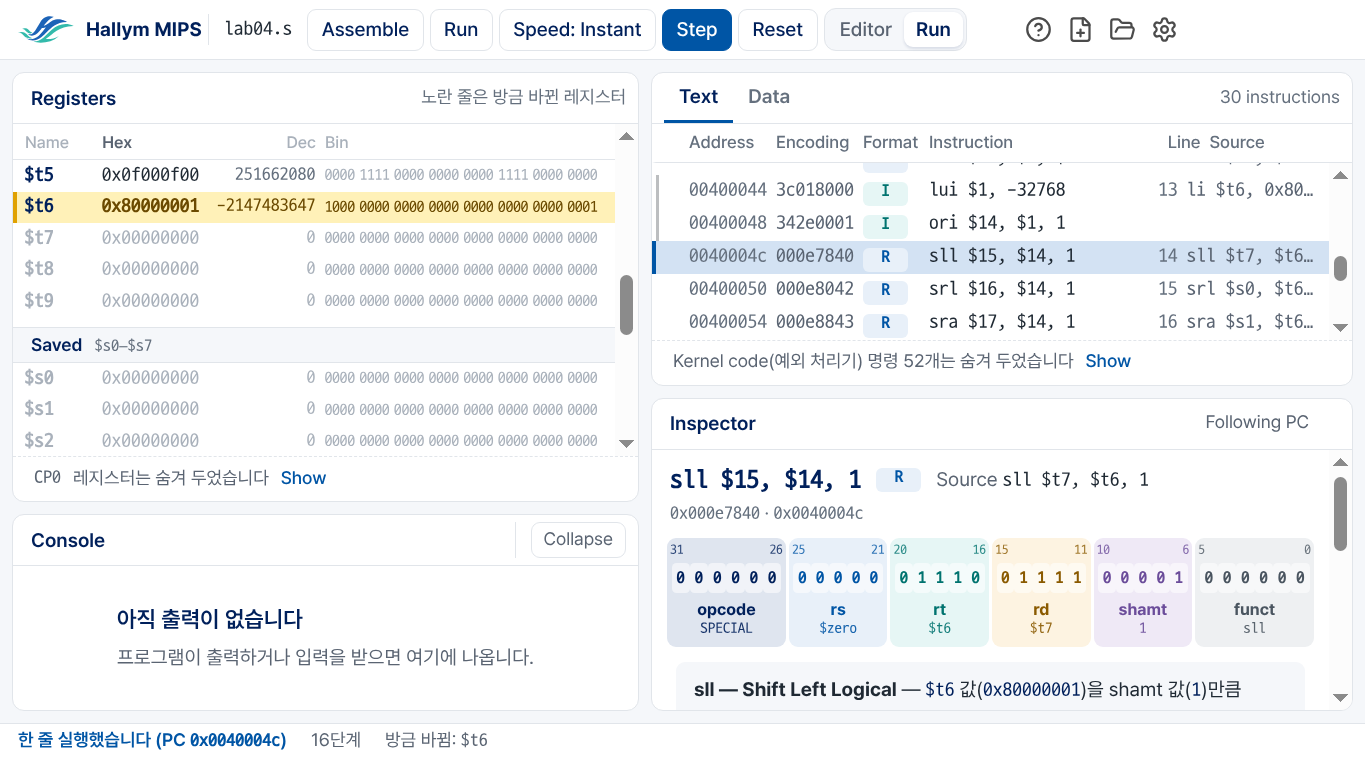
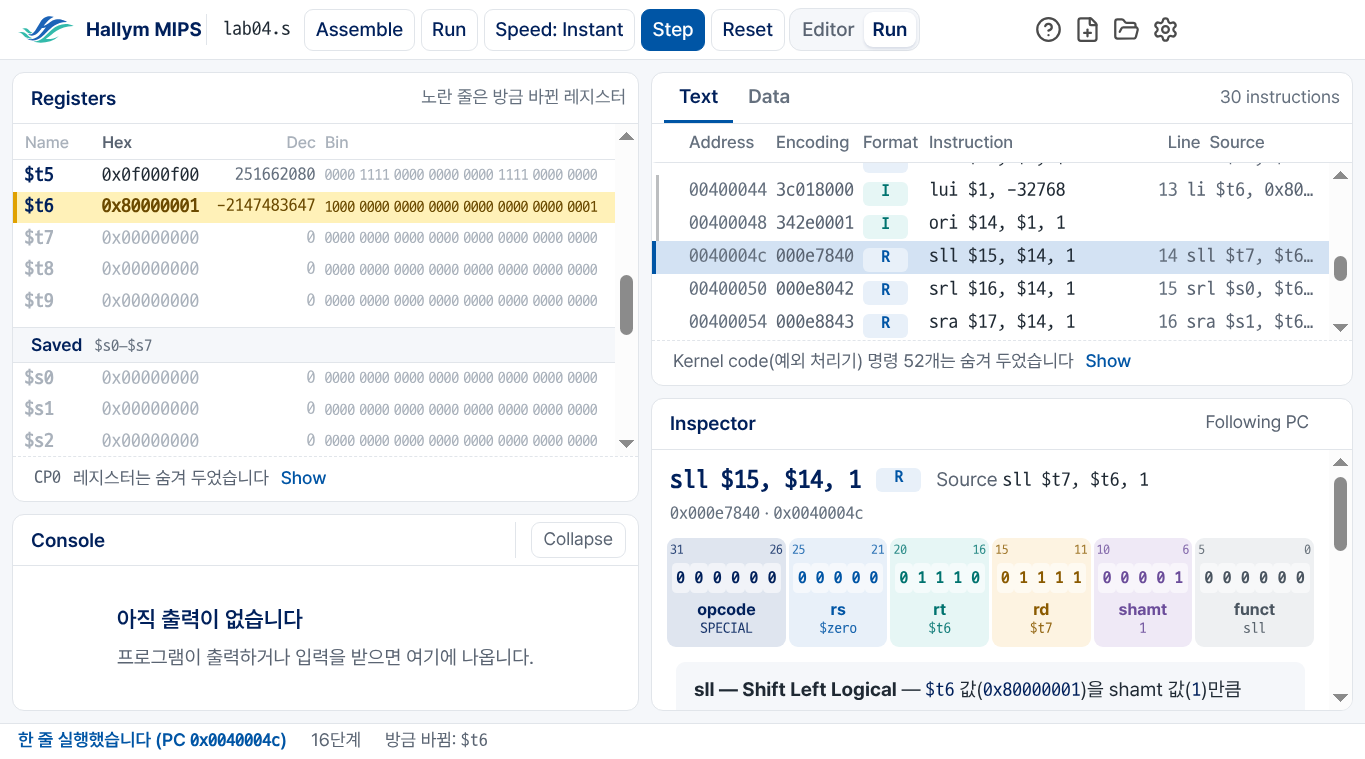
Title bar: the file's name gives way before the program's
A step between the tighter spacing and the program's name: the file's
name is cut in its stem (extension kept, Hangul counted as two columns,
logic/names.ts), down to ten columns, the whole name in the tooltip;
only if that is not enough does "Hallym MIPS" go, and the file's name
takes back the room.  Tighter spacing a little tighter still.

fit.e2e: lab04.s and a twenty-column name with Hangul
(lab04_김학현_20210123.s) at 1280, 1093, 1024 and 910, each also with the
caption buttons 30 px wider as on Windows (--caption-extra): the
program's name stays, the file's name is >= 10 columns and ends in .s,
nothing under the caption buttons.  3 new mutants.

Changed region(s): [[0.1538, 0.0, 0.7077, 0.0909], [0.7385, 0.0, 0.8615, 0.0606]]

diff --git a/src/renderer/app/app.ts b/src/renderer/app/app.ts
@@ -36,6 +36,7 @@ import type { RunResult } from '../../sim/protocol.ts';
 import './api.ts';
 import { asset, character, code, codeText, h, icon, withHex } from './dom.ts';
 import { createEditor } from './editor.ts';
+import { shortName } from './logic/names.ts';
 import { stateAfter, stopMessage, textRows, type RegisterValues, type RunState, type TextRow } from './logic/machine.ts';
 import { aboutDialog } from './panels/about.ts';
 import { ConsolePanel } from './panels/console.ts';
@@ -383,8 +384,7 @@ const assembleOptions = (a: Advanced) => ({
 
 function renderChrome(): void {
   document.title = open ? `${file.name}${dirty ? ' •' : ''} — ${APP_NAME}` : APP_NAME;
-  fileLabel.replaceChildren(open ? h('b', { class: 'mono' }, file.name) : '',
-    open && dirty ? h('span', { class: 'dirty', title: 'Unsaved changes' }, ' •') : '');
+  showFileName(FILE_MOST);
   const running = runState === 'running';
   const setBtn = (b: HTMLButtonElement, on: boolean, primary: boolean) => {
     b.disabled = !on;
@@ -410,20 +410,53 @@ function renderChrome(): void {
   fitTitlebar();
 }
 
+// The file's name in the title bar, at most `cols` columns (logic/names.ts);
+// the whole name in its tooltip.
+const FILE_MOST = 32;
+const FILE_LEAST = 10;
+function showFileName(cols: number): void {
+  fileLabel.title = open ? file.name : '';
+  fileLabel.replaceChildren(open ? h('b', { class: 'mono' }, shortName(file.name, cols)) : '',
+    open && dirty ? h('span', { class: 'dirty', title: 'Unsaved changes' }, ' •') : '');
+}
+
 // The title bar gives way one step at a time, as far as it has to: the key
 // hints, the buttons' icons (their names stay), the speed as one button,
-// tighter spacing, and last the program's name (the logo stays).
+// tighter spacing, the file's name (down to FILE_LEAST columns), and last
+// the program's name (the logo stays) -- the file's name then takes back
+// what the program's name left.
 // It fits when its last item ends before the padding kept for the system's
 // caption buttons (scrollWidth does not count what spills into padding).
-const TITLE_STEPS = 5;
+const TITLE_STEPS = 4;
 const tools = titlebar.querySelector('.tools') as HTMLElement;
 function fitTitlebar(): void {
   const end = () => titlebar.getBoundingClientRect().right - parseFloat(getComputedStyle(titlebar).paddingRight);
+  const fits = () => tools.getBoundingClientRect().right <= end() + 0.5;
+  titlebar.classList.remove('c5');
+  showFileName(FILE_MOST);
   for (let level = 0; level <= TITLE_STEPS; level += 1) {
     for (let k = 1; k <= TITLE_STEPS; k += 1) titlebar.classList.toggle(`c${k}`, level >= k);
-    if (tools.getBoundingClientRect().right <= end() + 0.5) return;
+    if (fits()) return;
   }
+  // The longest name that fits, between FILE_LEAST and FILE_MOST columns.
+  const longest = (): boolean => {
+    let lo = FILE_LEAST;
+    let hi = FILE_MOST;
+    showFileName(lo);
+    if (!fits()) return false;
+    while (lo < hi) {
+      const mid = Math.ceil((lo + hi) / 2);
+      showFileName(mid);
+      if (fits()) lo = mid; else hi = mid - 1;
+    }
+    showFileName(lo);
+    return true;
+  };
+  if (longest()) return;
+  titlebar.classList.add('c5');
+  if (!longest()) showFileName(FILE_LEAST);
 }
+window.addEventListener('resize', () => fitTitlebar());
 
 function renderStatus(): void {
   const parts: (Node | string)[] = [];

diff --git a/tests/e2e/fit.e2e.ts b/tests/e2e/fit.e2e.ts
@@ -15,6 +15,7 @@
 
 import { expect, test, type Page } from '@playwright/test';
 
+import { columns } from '../../src/renderer/app/logic/names.ts';
 import { brokenWords, launch, openAndAssemble, resize, sample, settled, type Running } from './harness.ts';
 
 const SIZES = [
@@ -92,6 +93,46 @@ for (const size of SIZES) {
       await openAndAssemble(r, sample(r.dir, 'tests/samples/lab04.s'));
       await expect(page.locator('.run-side .errors')).toBeVisible();
       expect(await brokenWords(page)).toEqual([]);
+    } finally {
+      await r.close();
+    }
+  });
+}
+
+// Real file names are long: "hw03_2021012345.s", "lab04_김학현.s".  With a
+// twenty-column one (Hangul in it), the file's name gives way before the
+// program's: cut in the stem, extension kept, never under ten columns, the
+// whole name in the tooltip -- and "Hallym MIPS" stays, at every size.
+// Again with the caption buttons 30 px wider, as on Windows (on Windows
+// itself the real ones already are).
+const LONG = 'lab04_김학현_20210123.s';
+for (const size of SIZES) {
+  test(`${size.name}: a long file name gives way before the program's name`, async () => {
+    const r = await launch(size);
+    const { page } = r;
+    try {
+      for (const extra of process.platform === 'win32' ? [0] : [0, 30]) {
+        await page.evaluate((x) => document.documentElement.style.setProperty('--caption-extra', `${x}px`), extra);
+        for (const name of ['lab04.s', LONG]) {
+          await openAndAssemble(r, sample(r.dir, 'tests/samples/lab04-ok.s', name));
+          await page.evaluate(() => window.dispatchEvent(new Event('resize')));
+          const where = `${name}, caption +${extra}`;
+          await expect(page.locator('.titlebar .appname'), where).toBeVisible();
+          const label = page.locator('.titlebar .file');
+          await expect(label, where).toHaveAttribute('title', name);
+          const shown = (await label.locator('b').textContent())!;
+          expect(shown.endsWith('.s'), `${where}: ${shown}`).toBe(true);
+          expect(columns(shown), `${where}: ${shown}`).toBeGreaterThanOrEqual(Math.min(10, columns(name)));
+          if (shown !== name) expect(shown, where).toContain('…');
+          expect(await page.evaluate((x) => {
+            const o = (navigator as unknown as { windowControlsOverlay: { getTitlebarAreaRect(): DOMRect } }).windowControlsOverlay.getTitlebarAreaRect();
+            return document.querySelector('.titlebar .tools')!.getBoundingClientRect().right <= o.x + o.width - x + 0.5;
+          }, extra), `${where}: under the caption buttons`).toBe(true);
+          for (const label of ['Assemble', 'Run', 'Step', 'Reset']) {
+            await expect(page.locator('.toolbar .btn .label', { hasText: new RegExp(`^${label}$`) }), where).toBeVisible();
+          }
+        }
+      }
     } finally {
       await r.close();
     }

diff --git a/src/renderer/app/app.css b/src/renderer/app/app.css
@@ -52,7 +52,8 @@ button { font: inherit; color: inherit; cursor: pointer; }
    right end (titleBarOverlay): keep clear of them. */
 .titlebar {
   display: flex; align-items: center; gap: 8px; min-width: 0;
-  padding: 0 calc(100vw - env(titlebar-area-x, 0px) - env(titlebar-area-width, 100vw) + 8px) 0 12px;
+  /* --caption-extra: the tests make the room Windows' wider caption buttons take. */
+  padding: 0 calc(100vw - env(titlebar-area-x, 0px) - env(titlebar-area-width, 100vw) + 8px + var(--caption-extra, 0px)) 0 12px;
   background: var(--white); border-bottom: 1px solid var(--border);
   -webkit-app-region: drag; user-select: none;
 }
@@ -60,7 +61,7 @@ button { font: inherit; color: inherit; cursor: pointer; }
 .titlebar .brand { display: flex; align-items: center; gap: 8px; flex: none; }
 .titlebar .logo { height: 18px; width: auto; }
 .titlebar .appname { font-weight: 700; color: var(--navy); white-space: nowrap; letter-spacing: .1px; }
-.titlebar .file { color: var(--text-2); white-space: nowrap; overflow: hidden; text-overflow: ellipsis; flex: none; max-width: 28ch;
+.titlebar .file { color: var(--text-2); white-space: nowrap; overflow: hidden; flex: none;
   padding-left: 10px; border-left: 1px solid var(--border); }
 .titlebar .file:empty { display: none; }
 .titlebar .file b { color: var(--text); font-weight: 400; }
@@ -90,18 +91,18 @@ button { font: inherit; color: inherit; cursor: pointer; }
 .speedlabel { font-size: 12px; color: var(--text-2); white-space: nowrap; }
 .titlebar .speedone { display: none; }
 /* A narrow title bar gives way in steps (app.ts fitTitlebar): key hints,
-   the buttons' icons, the speed as one button, tighter spacing, and only
-   then the program's name.  The buttons keep their names throughout. */
+   the buttons' icons, the speed as one button, tighter spacing, the file's
+   name (app.ts, down to ten columns), and only then the program's name.
+   The buttons keep their names throughout. */
 .titlebar.c1 .btn kbd { display: none; }
-.titlebar.c1 .file { max-width: 16ch; }
 .titlebar.c2 .toolbar .btn img { display: none; }
 .titlebar.c2 .toolbar .btn { padding: 0 9px; }
 .titlebar.c2 .toolbar { gap: 4px; }
 .titlebar.c3 .speedlabel, .titlebar.c3 .speed { display: none; }
 .titlebar.c3 .speedone { display: inline-flex; }
-.titlebar.c4 { gap: 4px; }
-.titlebar.c4 .viewswitch button { padding: 2px 8px; }
-.titlebar.c4 .iconbtn { width: 26px; }
+.titlebar.c4 { gap: 3px; }
+.titlebar.c4 .viewswitch button { padding: 2px 6px; }
+.titlebar.c4 .iconbtn { width: 24px; }
 .titlebar.c4 .toolbar .btn { padding: 0 7px; }
 .titlebar.c4 .drag { min-width: 4px; }
 .titlebar.c5 .appname { display: none; }

diff --git a/tools/mutants.ts b/tools/mutants.ts
@@ -302,7 +302,11 @@ const MUTANTS: Mutant[] = [
     find: '.titlebar.c2 .toolbar .btn img { display: none; }', replace: '.titlebar.c2 .toolbar .btn .label { display: none; }',
     tests: ['tests/e2e/fit.e2e.ts'] },
   { module: 'window', file: 'src/renderer/app/app.ts', what: 'the title bar never gives way',
-    find: '    if (tools.getBoundingClientRect().right <= end() + 0.5) return;', replace: '    return;', tests: ['tests/e2e/fit.e2e.ts'] },
+    find: '  const fits = () => tools.getBoundingClientRect().right <= end() + 0.5;', replace: '  const fits = () => true;', tests: ['tests/e2e/fit.e2e.ts'] },
+  { module: 'window', file: 'src/renderer/app/app.ts', what: 'the program\'s name given up before the file\'s',
+    find: '  if (longest()) return;\n', replace: '', tests: ['tests/e2e/fit.e2e.ts'] },
+  { module: 'window', file: 'src/renderer/app/logic/names.ts', what: 'a long name cut at its end (extension lost)',
+    find: '  return `${head}…${ext}`;', replace: '  return `${head}${ext}…`;', tests: ['tests/renderer/names.test.ts'] },
   { module: 'window', file: 'src/renderer/app/app.ts', what: 'a toolbar on the first screen',
     find: '  toolbar.hidden = !open;', replace: '  toolbar.hidden = false;', tests: ['tests/e2e/fit.e2e.ts'] },
   { module: 'window', file: 'src/renderer/app/app.css', what: 'Korean words broken anywhere',

diff --git a/tests/renderer/names.test.ts b/tests/renderer/names.test.ts
@@ -1,0 +1,22 @@
+/* A file's name shortened for the title bar (src/renderer/app/logic/
+   names.ts): the stem gives way, the extension stays; Hangul is two
+   columns wide. */
+
+import assert from 'node:assert/strict';
+import { test } from 'node:test';
+
+import { columns, shortName } from '../../src/renderer/app/logic/names.ts';
+
+test('columns: Hangul takes two', () => {
+  assert.equal(columns('lab04.s'), 7);
+  assert.equal(columns('lab04_김학현.s'), 14);
+});
+
+test('shortName: whole when it fits; else the stem cut, the extension kept, within the columns', () => {
+  assert.equal(shortName('lab04.s', 10), 'lab04.s');
+  assert.equal(shortName('hw03_2021012345.s', 12), 'hw03_2021….s');
+  assert.equal(shortName('lab04_김학현_20210123.s', 10), 'lab04_….s');
+  assert.equal(shortName('lab04_김학현_20210123.s', 12), 'lab04_김….s');
+  for (const cols of [10, 11, 12, 16, 20]) assert.ok(columns(shortName('lab04_김학현_20210123.s', cols)) <= cols);
+  assert.equal(shortName('README', 4), 'REA…');
+});

diff --git a/src/renderer/app/logic/names.ts b/src/renderer/app/logic/names.ts
@@ -1,0 +1,20 @@
+/* A file's name in a given width of the title bar, counted in columns of
+   the mono font: Hangul (and other wide characters) take two.  Too long,
+   it loses the end of its stem, not its extension: "hw03_2021….s".  The
+   whole name goes into the label's tooltip (app.ts). */
+
+const wide = (c: string) => /[ᄀ-⺀-꓏가-힣豈-﫿︰-﹏＀-｠￠-￦]/.test(c);
+export const columns = (s: string): number => [...s].reduce((n, c) => n + (wide(c) ? 2 : 1), 0);
+
+export function shortName(name: string, cols: number): string {
+  if (columns(name) <= cols) return name;
+  const dot = name.lastIndexOf('.');
+  const ext = dot > 0 && name.length - dot <= 5 ? name.slice(dot) : '';
+  const room = cols - 1 - columns(ext); // "…" takes one
+  let head = '';
+  for (const c of name.slice(0, name.length - ext.length)) {
+    if (columns(head + c) > room) break;
+    head += c;
+  }
+  return `${head}…${ext}`;
+}

diff --git a/docs/PORTING.md b/docs/PORTING.md
@@ -722,8 +722,12 @@ Format·Instruction 에 필요한 폭. Editor 는 나머지의 40% 이하, 300px
 | 910×505 (좁은 창, Run 탭) | Name Hex Dec Bin | 전부 (Line·Source 까지) | 전부 |
 
 **툴바.** 좁아지면 `app.ts fitTitlebar()` 가 한 단계씩 양보한다: 단축키 표시 → 버튼의 아이콘 → 속도를 버튼 하나로
-("Speed: Instant") → 간격 좁히기 → 맨 마지막에 프로그램 이름(로고는 남음). 1024·910 에서도 "Hallym MIPS" 가 남고,
-최소 창(760)에서만 이름이 빠진다. 버튼의 이름(Assemble·Run·Step·Reset)은 끝까지 남는다. 속도에는 "Run speed" 라는 이름을
+("Speed: Instant") → 간격 좁히기 → 파일명 줄이기 → 맨 마지막에 프로그램 이름(로고는 남음).
+파일명은 줄기의 뒤를 자르고 확장자는 남긴다(`hw03_2021….s`, `logic/names.ts`, 한글은 두 칸으로 센다). 전체 이름은 도구 설명에 둔다.
+최소 10칸까지 줄여도 모자랄 때만 프로그램 이름을 버리고, 그 자리를 파일명이 다시 쓴다. 파일명은 길어도 32칸까지만 보인다.
+`lab04_김학현_20210123.s`(20칸, 한글 포함)로도 1280·1093·1024·910 에서 "Hallym MIPS" 가 남는다. Windows 의 창 버튼 자리
+(Linux 보다 약 30px 넓다)를 흉내 낸 `--caption-extra: 30px` 로도 확인한다(e2e). 910 + Windows 에서는 파일명이
+`lab04_김….s` 까지 줄어든다. 최소 창(760)에서는 이름이 빠진다. 버튼의 이름(Assemble·Run·Step·Reset)은 끝까지 남는다. 속도에는 "Run speed" 라는 이름을
 붙여 Run 바로 옆에 둔다. 파일이 없는 첫 화면에는 툴바가 없다.
 
 **한국어 줄바꿈.** `body` 에 `word-break: keep-all` 을 전역으로 건다. 어절 안에서 줄이 바뀌지 않는다. 한 줄보다 긴 코드 조각
